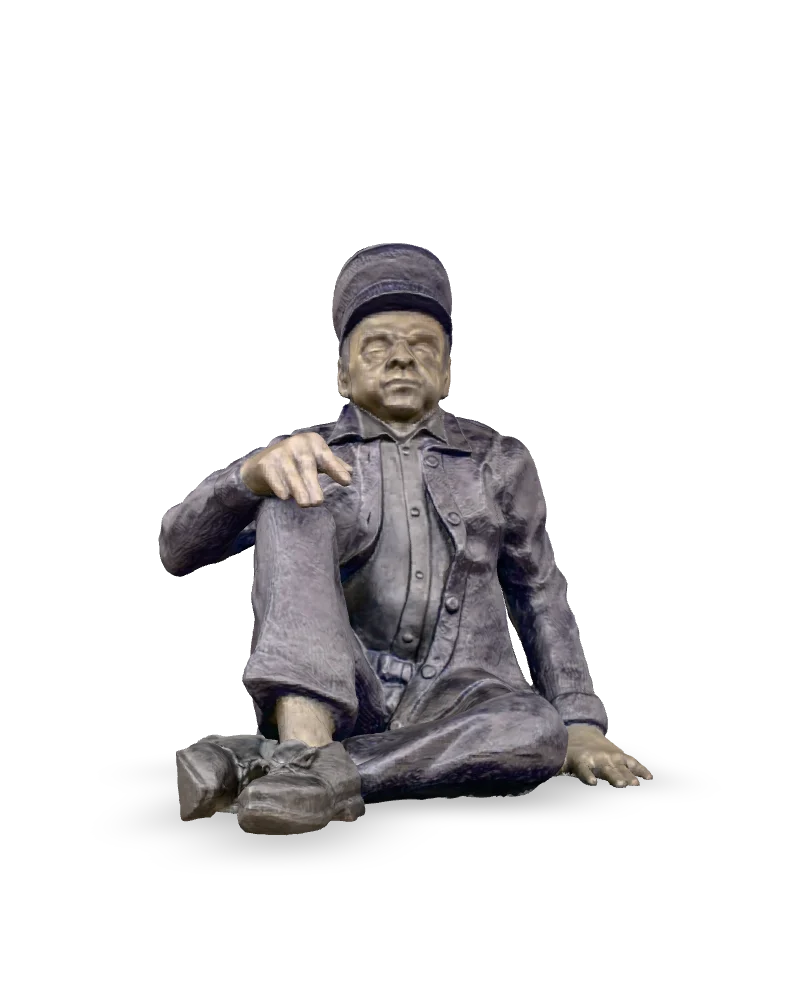
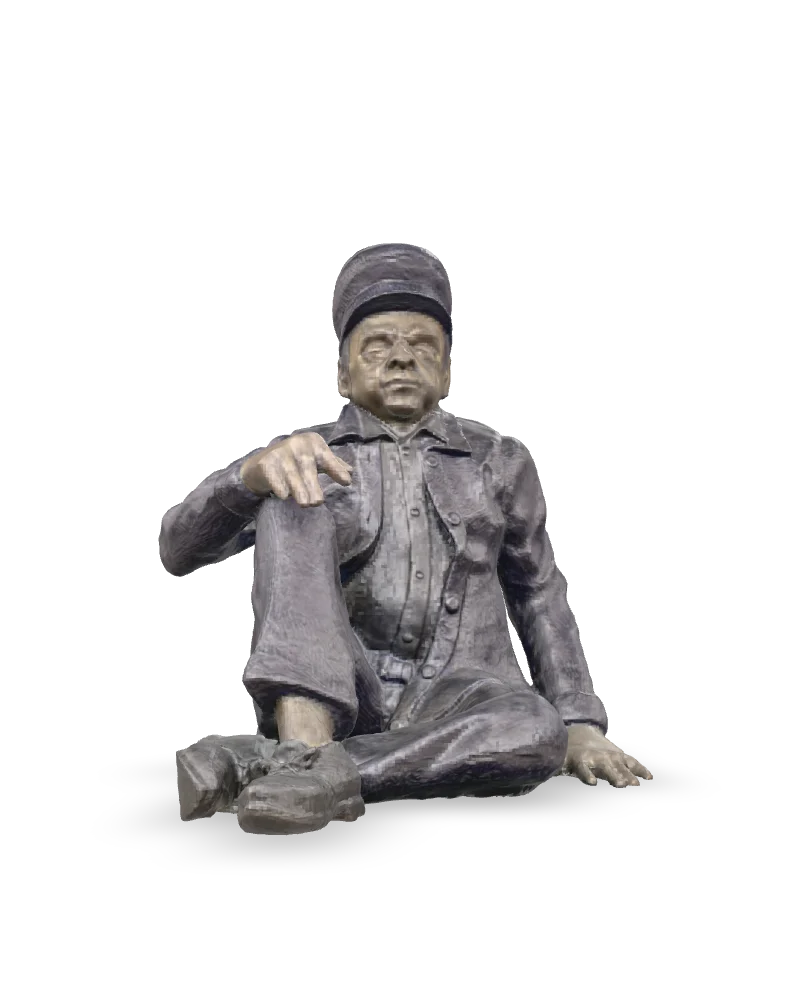
Seated Bandsman with Horn and Man from Moon: new looks with paint sheen
Both scans have no sheen of their own; specular 1 lets roughness and
reflections show. Thumbnails rebuilt, ?v= bumped.

diff --git a/lib/sculptures.ts b/lib/sculptures.ts
@@ -267,9 +267,9 @@ export const sculptures: Sculpture[] = [
     longDescription:
       "A man sits on the ground with one knee drawn up, his right forearm resting across it and the hand hanging loosely over the edge, the fingers curled. His other leg lies folded flat in front of him, and his left hand is placed palm down on the ground beside his hip. His head is slightly lifted and his eyes appear nearly closed.\n\nHe wears a peaked cap with a band, a shirt buttoned to the collar, a loose open jacket with buttons down one side and a belt at the waist. His trousers are creased at the shin, and he wears heavy laced shoes, both placed at the front of the work. The clothing has a textured, slightly rough surface in a dark grey-violet tone, while the face, hands and a strip of bare ankle are a lighter golden brown.\n\nThis is a large bronze, 30 × 30 × 32 inches, about 76 cm high, and is cast 3 of an edition of 9. The title refers to a horn; from this front view the instrument is not visible. The seated figure is one of the bandsmen of Krishen Khanna's Bandwallahs series.",
     artistSlug: "krishen-khanna",
-    thumbnail: "/thumbnails/khanna-seated-bandsman-with-horn.webp?v=6",
+    thumbnail: "/thumbnails/khanna-seated-bandsman-with-horn.webp?v=7",
     modelUrl: "/sculptures/khanna-untitled-seated-man.glb?v=2",
-    look: { metalness: 1.5, roughness: 1.8, reflections: 1.5, light: 1.4, sideLights: 1 },
+    look: { roughness: 0.6, reflections: 1.1, light: 1.4, sideLights: 1, specular: 1 },
     material: "Bronze",
     year: "",
     dimensions: "30 × 30 × 32 inches",
@@ -705,9 +705,9 @@ export const sculptures: Sculpture[] = [
     longDescription:
       "A rough, upright column rises from a dark red block, its surface broken into folds, ridges and hollows like crumpled material. At its top sits a flat, rounded disc, tilted forward and to one side, in an olive and golden tone that is smoother than the column below. A small raised point marks the face of the disc, a little off centre.\n\nA thin orange rod passes diagonally through the column, entering low on one side and leaving high on the other. Its lower end reaches down past the corner of the block, while its upper end extends well beyond the top of the disc, so the line of the rod is the longest element in the work.\n\nMan from Moon is a small bronze by Himmat Shah, measuring 7 × 9 × 4 inches. Its three elements are kept clearly separate: the textured column, the smooth disc and the straight rod. The column is widest at its foot, where it meets the top of the block in an uneven edge, and its creases run mostly upwards. The disc overhangs the column on the side away from the rod, and its rim is slightly irregular.",
     artistSlug: "himmat-shah",
-    thumbnail: "/thumbnails/shah-man-from-moon.webp?v=4",
+    thumbnail: "/thumbnails/shah-man-from-moon.webp?v=5",
     modelUrl: "/sculptures/untitled-figure-with-spear.glb?v=2",
-    look: { metalness: 0.95, roughness: 0.2, reflections: 0.6, light: 1.55 },
+    look: { metalness: 0.95, roughness: 0.7, reflections: 0.6, light: 1.55, specular: 1 },
     facing: 270,
     material: "Bronze",
     year: "",
